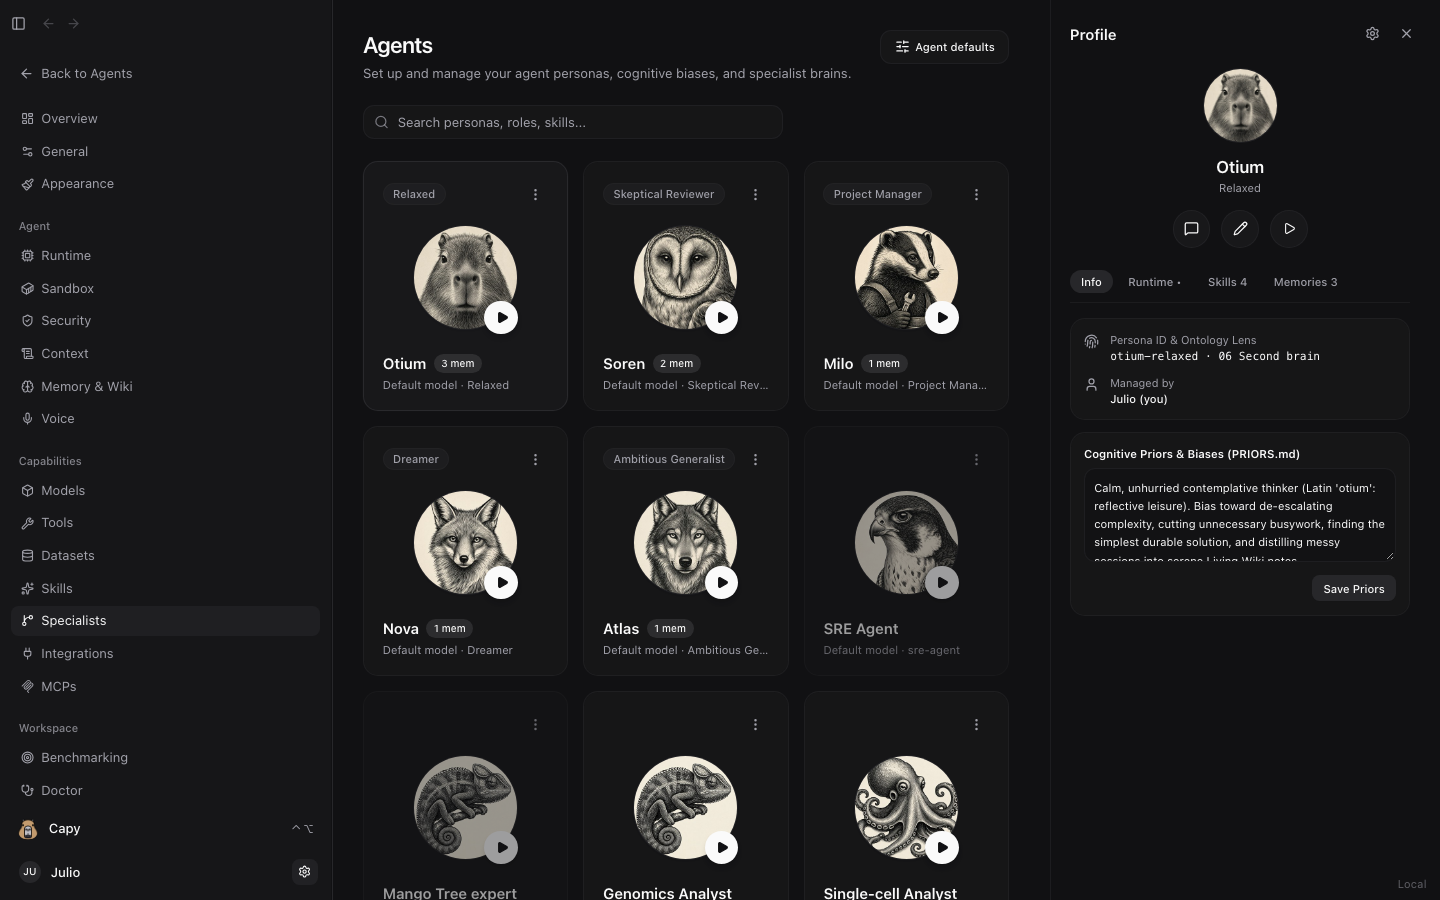
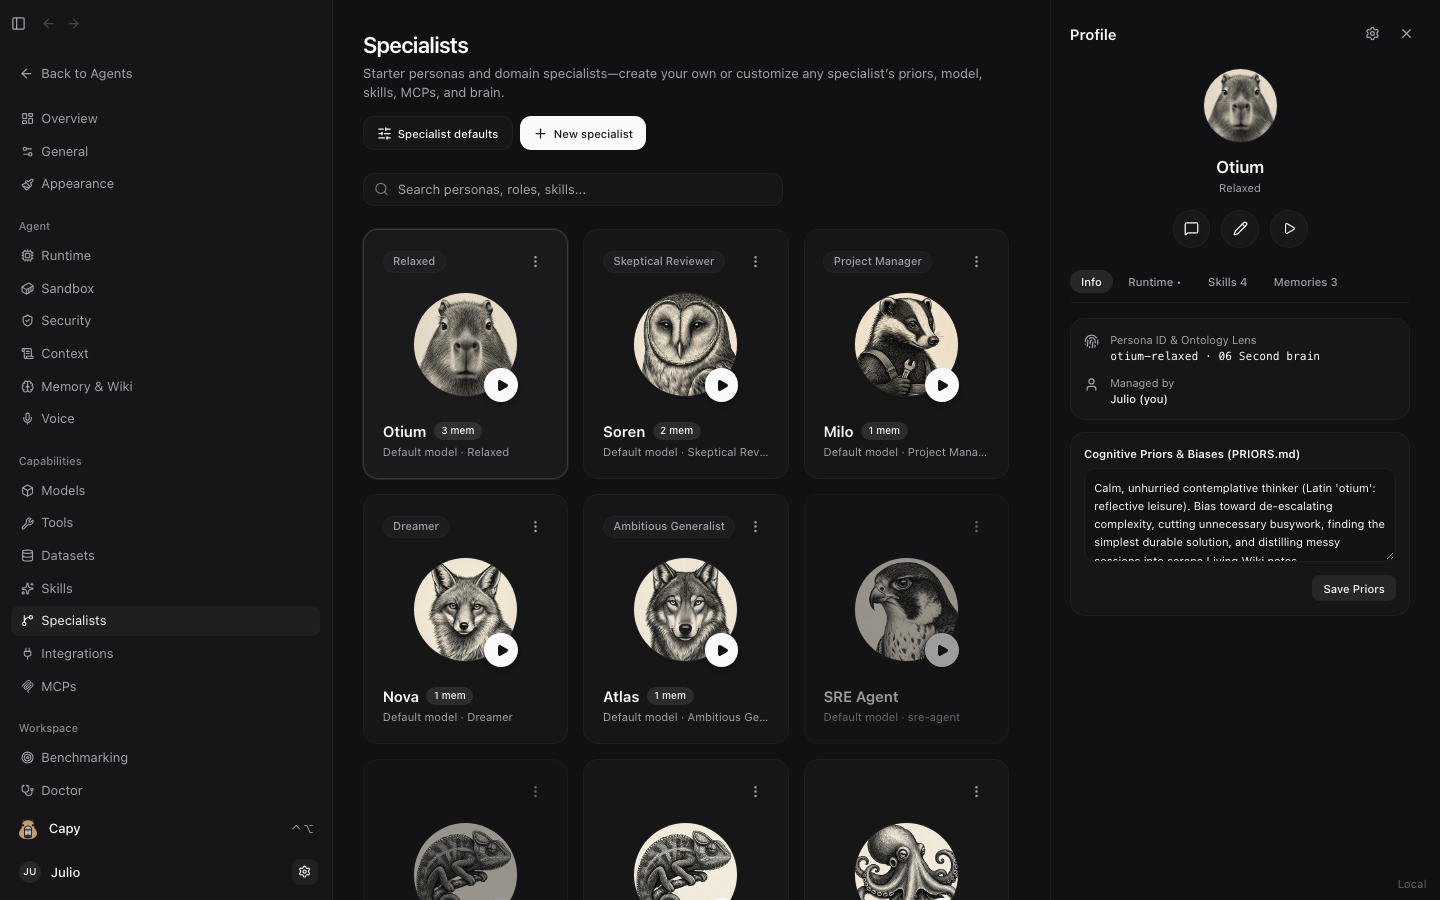
docs(readme,specialists): unify Specialists naming, add + New specialist header CTA, simplify Mermaid diagrams, and add References
Why:
- Unify terminology to 'Specialists' across the Sidebar, page title, '+ New specialist' header button, Composer '+' menu, and CLI (/specialist), avoiding collision with 'Back to Agents' (chat sessions).
- Make the '+ New specialist' button immediately visible in the top-right header of Specialists so users see that Otium, Soren, Milo, Nova, and Atlas are starter defaults and they can create custom Specialists.
- Simplify the README Mermaid diagrams to clean, high-level left-to-right flowcharts ('Cold Start: Load the Save File' Memory Hub + Solution Overview).
- Add a 'References & Acknowledgments' section at the bottom of README.md crediting Omnigraph, LangChain/LangGraph/Deep Agents, Hermes Agent, TencentDB Agent Memory, skills.sh, llama.cpp, and Modal.

diff --git a/apps/local-web/src/components/agents/specialists-view/specialists-view-list.tsx b/apps/local-web/src/components/agents/specialists-view/specialists-view-list.tsx
@@ -233,10 +233,13 @@ export function SpecialistsListView({
         <div className="mx-auto flex w-full max-w-6xl flex-col gap-6 px-5 pt-6 pb-10 md:px-8 md:pt-8">
           <div className="flex flex-wrap items-start justify-between gap-4">
             <div>
-              <h2 className="text-2xl font-semibold tracking-tight">Agents</h2>
+              <h2 className="text-2xl font-semibold tracking-tight">
+                Specialists
+              </h2>
               <p className="text-muted-foreground mt-1 text-sm">
-                Set up and manage your agent personas, cognitive biases, and
-                specialist brains.
+                Starter personas and domain specialists—create your own or
+                customize any specialist’s priors, model, skills, MCPs, and
+                brain.
               </p>
             </div>
             <div className="flex items-center gap-2">
@@ -249,9 +252,18 @@ export function SpecialistsListView({
                   onClick={onOpenDefaults}
                 >
                   <SlidersHorizontal className="size-3.5" />
-                  Agent defaults
+                  Specialist defaults
                 </Button>
               ) : null}
+              <Button
+                type="button"
+                size="sm"
+                className="h-9 gap-1.5 rounded-xl px-3.5 text-xs font-medium"
+                onClick={onOpenNew}
+              >
+                <Plus className="size-3.5" />
+                New specialist
+              </Button>
             </div>
           </div>
 

diff --git a/apps/local-web/e2e/tests/memory-personas.spec.ts b/apps/local-web/e2e/tests/memory-personas.spec.ts
@@ -28,11 +28,16 @@ test.describe('Memory, Omnigraph Cookbooks, and Persona Specialists UI', () => {
       { apiUrl: env.apiUrl, apiKey: env.apiKey }
     )
 
-    // 1. Navigate to Specialists (Agents Persona Grid)
+    // 1. Navigate to Specialists (/dashboard/specialists)
     await page.goto('/dashboard/specialists')
-    await expect(page.getByRole('heading', { name: 'Agents' })).toBeVisible({
+    await expect(
+      page.getByRole('heading', { name: 'Specialists' })
+    ).toBeVisible({
       timeout: 15_000
     })
+    await expect(
+      page.getByRole('button', { name: /New specialist/i })
+    ).toBeVisible()
     await expect(page.getByText('Otium').first()).toBeVisible()
     await expect(page.getByText('Nova').first()).toBeVisible()
     await expect(page.getByText('Atlas').first()).toBeVisible()

diff --git a/apps/local-web/src/components/agents/MemoryView.tsx b/apps/local-web/src/components/agents/MemoryView.tsx
@@ -696,7 +696,7 @@ export function MemoryView({
                 className="h-9 rounded-xl text-xs"
                 onClick={() => navigate('/dashboard/specialists')}
               >
-                Back to Agents
+                Back to Specialists
               </Button>
             ) : null}
           </div>

diff --git a/README.md b/README.md
@@ -90,76 +90,39 @@ Sandwalk is in developer preview.
 
 Most AI chat tools treat every conversation as disposable: when a thread ends, the context, caveats, negative results, and domain workflows vanish with it. Dumping raw transcripts into a vector store or an ever-growing system prompt only trades amnesia for context rot and broken KV caches.
 
+Sandwalk turns the learning cost you have already paid into a **local save file**:
+
+```mermaid
+flowchart LR
+    S1["Past Sessions"] --> A1["Memories\n(USER.md · MEMORY.md)"]
+    S2["Docs & Notes"] --> A2["Living Wiki\n([[wikilinks]])"]
+    S3["Domain Data"] --> A3["Omnigraph (.omni)\n(Queryable Graph)"]
+    S4["Completed Work"] --> A4["Skills\n(Verified Methods)"]
+
+    A1 & A2 & A3 & A4 --> Hub[("Sandwalk Memory Hub\nReview · Branch · Crystallize")]
+    Hub --> Next["Next Agent / Specialist\nStarts Where You Left Off"]
+```
+
 Sandwalk is built around four core principles:
 
 1. **Decoupled & Local-First (`~/.sandwalk/`)**: Your models (17 cloud providers + local `llama.cpp`, Ollama, oMLX, LM Studio), your execution sandboxes (Local machine or Modal cloud CPU/GPU), your MCP servers, and your knowledge live on your machine in open formats (`.md`, `.pg`, `.gq`, `.jsonl`, Lance `.omni`, SQLite).
-2. **Cognitive Diversity via Persona Specialists**: Complex questions benefit from distinct thinking styles. Sandwalk ships with O'Reilly-style natural history animal personas—**Otium** (*Relaxed* Capybara), **Atlas** (*Ambitious Generalist* Wolf), **Nova** (*Dreamer* Fox), **Milo** (*Project Manager* Badger), and **Soren** (*Skeptical Reviewer* Owl)—alongside domain specialists. Each persona carries its own cognitive priors (`PRIORS.md`), learned memory (`MEMORY.md`), default model, and ontology lens.
+2. **Customizable Specialists**: Complex questions benefit from distinct thinking styles and toolkits. Sandwalk ships with starter Specialists—including O'Reilly-style natural history animal personas (**Otium**, **Atlas**, **Nova**, **Milo**, **Soren**) and scientific specialists—and you can create as many custom Specialists as you want (`+ New specialist`), each with its own cognitive priors (`PRIORS.md`), learned memory (`MEMORY.md`), default model, skills, MCPs, and ontology lens.
 3. **Byte-Stable Prompt Prefix + Progressive Disclosure**: At session start, Sandwalk injects a compact, bounded snapshot (`USER.md` ~1,375 chars + `MEMORY.md` ~2,200 chars + `PRIORS.md` + Living Wiki TOC + Active Ontology summary) and freezes it for the session so LLM KV prefix caches stay warm. Deeper knowledge is retrieved on demand via tools.
 4. **Compounding Knowledge into Reusable Skills**: As you work with your agents or **Capy**, conversations automatically distill into **4 governed knowledge assets**—**Bounded Memories**, **Living Markdown Wiki**, **Versioned Omnigraph Knowledge Graph**, and **Reusable Skills (`SKILL.md`)**—so what you learn today becomes an executable capability tomorrow.
 
 ```mermaid
-flowchart TB
-    subgraph Surfaces["Unified Client Surfaces"]
-        Desktop["macOS & Ubuntu Desktop App\n(Tauri + React)"]
-        Web["Local & LAN Web UI\n(:1420 / :8787)"]
-        CLI["Interactive Terminal CLI\n(sandwalk)"]
-        ExtCLI["External Agent CLIs\n(Claude Code · Codex · OpenCode · fx · Hermes)"]
-    end
-
-    subgraph Orchestration["Orchestration & Cognitive Personas"]
-        Capy["Capy Meta-Agent\n(Session Grids · Handoffs · Bench · Memory Steward)"]
-        Personas["Persona & Domain Specialists\n(Otium · Atlas · Nova · Milo · Soren · Bio/Chem)"]
-    end
-
-    subgraph Core["Local Sandwalk Agent Server (:8787)"]
-        Router["Unified Model Router\n(17 Cloud Providers · ChatGPT Plan · Local llama.cpp / Ollama)"]
-        PromptBudget["Frozen Session-Start Context\n(Byte-Stable KV Cache + Tool Tiering)"]
-        Distiller["Background Session Distiller\n(GPU-Aware Hybrid Extraction)"]
-    end
-
-    subgraph Execution["Sandboxes, Tools & MCP"]
-        LocalSB["Local Sandbox\n(Workspaces · PTY · Artifacts)"]
-        ModalSB["Modal Cloud CPU / GPU\n(T4 · L4 · A100 · H100)"]
-        Toolkit["190+ Scientific & Core Tools\n+ 1-Click MCP Servers"]
-    end
-
-    subgraph Knowledge["Compounding Knowledge Layer (~/.sandwalk/)"]
-        Mem["1. Bounded Snapshots\n(USER.md · MEMORY.md · PRIORS.md)"]
-        Wiki["2. Living Markdown Wiki\n([[wikilinks]] · Backlinks · Split/Full-Screen)"]
-        Omni["3. Local Omnigraph Engine (.omni)\n(6 Cookbooks 01–06 · Supports/Contradicts · Branches)"]
-        Skills["4. Crystallized Skills\n(~/.sandwalk/skills/<slug>/SKILL.md)"]
-    end
-
-    Surfaces --> Orchestration
-    Orchestration --> Core
-    Core --> Execution
-    Core --> Knowledge
-    Distiller -->|Auto-extracts after runs| Mem
-    Distiller -->|Synthesizes briefs| Wiki
-    Distiller -->|Records typed claims| Omni
-    Mem & Wiki & Omni -->|memory.create_skill / To Skill| Skills
-    Skills -->|Equipped on next run| Personas
+flowchart LR
+    UI["Desktop · Web · CLI\n& External CLIs"] --> Orch["Capy & Specialists\n(Starter or Custom)"]
+    Orch --> Runtime["Sandwalk Local Server\n(Any Cloud or Local LLM)"]
+    Runtime --> Exec["Sandboxes & Tools\n(Local or Modal GPU)"]
+    Runtime <--> Hub[("Memory · Wiki\nOmnigraph · Skills")]
 ```
 
 ## Compounding Memory, Wiki & Omnigraph
 
-Sandwalk turns everyday agent sessions into a structured, self-improving knowledge base—without requiring external database infrastructure:
+Sandwalk turns everyday sessions into a structured, self-improving knowledge base—without requiring external database infrastructure:
 
-```mermaid
-flowchart LR
-    Chat["Agent / Persona Session\n(or Capy Command)"] -->|1. During turn| Tools["Core Memory Tools\n(memory.mutate · wiki.write · graph.record_claim)"]
-    Chat -->|2. On run.completed| AutoDistill["Background Distiller\n(_auto_distill_after_run)"]
-
-    Tools & AutoDistill --> M["Memories\nUSER.md & MEMORY.md"]
-    Tools & AutoDistill --> W["Living Wiki\n~/.sandwalk/memory/wiki/*.md"]
-    Tools & AutoDistill --> G["Omnigraph (.omni)\nschema.pg · queries.gq · data.jsonl"]
-
-    G -->|Git-style review/* branch| Review["Supports vs. Contradicts\n& Contested Claim Alerts"]
-    M & W & G -->|3. Crystallize\n(memory.create_skill / UI)| Skill["Installed Sandwalk Skill\n~/.sandwalk/skills/<slug>/SKILL.md"]
-    Skill -->|4. /skill-slug| Chat
-```
-
-- **Four Scopes**: `global` (Personal & Lab Second Brain), `project:<id>` (per-project rules and wiki), `specialist:<id>` (each persona's private brain), and `user` (`USER.md` profile).
+- **Four Scopes**: `global` (Personal & Lab Second Brain), `project:<id>` (per-project rules and wiki), `specialist:<id>` (each Specialist's private brain), and `user` (`USER.md` profile).
 - **Six Runnable Omnigraph Cookbook Modes (`01–06`)**: Powered by the local [Omnigraph](https://www.omnigraph.dev/) Rust + Lance engine (`~/.sandwalk/bin/omnigraph` + auto-enabled stdio MCP bridge):
   - `01 Industry intel` — Track market signals through the SPIKE frame (`Signal`, `Pattern`, `Insight`, `KnowHow`).
   - `02 Pharma intel` — Monitor compounds, mechanisms, clinical trials, and competitive assumptions.
@@ -215,8 +178,8 @@ flowchart LR
 </tr>
 <tr>
 <td width="50%" valign="top">
-<img src="images/specialists.png" alt="O'Reilly animal Persona Specialists grid with Otium's Profile & Priors drawer" width="100%"><br>
-<sub><strong>Persona Specialists think differently.</strong> Otium, Soren, Milo, Nova, and Atlas—each with its own priors, model, and brain.</sub>
+<img src="images/specialists.png" alt="Specialists grid with + New specialist button and Otium's Profile & Priors drawer" width="100%"><br>
+<sub><strong>Specialists are customizable.</strong> Start from built-in personas (Otium, Soren, Milo, Nova, Atlas) or create your own—each with its own priors, model, skills, MCPs, and brain.</sub>
 </td>
 <td width="50%" valign="top">
 <img src="images/memory.png" alt="Memory & Knowledge showing MEMORY.md operating rules, USER.md profile, and Pending Approvals" width="100%"><br>
@@ -400,6 +363,17 @@ pnpm e2e:bench            # perf report → apps/local-web/e2e/results/grid-late
 ```
 
 Working with an AI agent? [AGENTS.md](AGENTS.md) and the project skills in `.cursor/skills/` encode the dev and test loop. See [CONTRIBUTING.md](CONTRIBUTING.md), [.github/TESTING.md](.github/TESTING.md), and [apps/packaging/APPLE-SIGNING.md](apps/packaging/APPLE-SIGNING.md).
+
+## References & Acknowledgments
+
+Sandwalk builds on and draws direct inspiration from several open-source projects and research harnesses:
+
+- **[Omnigraph (`ModernRelay/omnigraph`)](https://github.com/ModernRelay/omnigraph)** & **[omnigraph.dev](https://www.omnigraph.dev/)** — Versioned Rust + Lance graph engine, declarative `.pg` schemas, `.gq` stored queries, Git-style branching, and runnable Cookbook ontologies.
+- **[LangChain](https://github.com/langchain-ai/langchain)**, **[LangGraph](https://github.com/langchain-ai/langgraph)** & **[Deep Agents (`langchain-ai/deepagents`)](https://github.com/langchain-ai/deepagents)** — Core agent execution graph, streaming tool orchestration, and multi-provider model adapters.
+- **[Hermes Agent (`NousResearch/hermes-agent`)](https://github.com/NousResearch/hermes-agent)** — Bounded session-start `USER.md` / `MEMORY.md` snapshot architecture (preserving KV prefix caches) and SQLite FTS5 `session_search`.
+- **[TencentDB Agent Memory (`TencentCloud/TencentDB-Agent-Memory`)](https://github.com/TencentCloud/TencentDB-Agent-Memory)** — Four-asset memory hub (`Chat Memory`, `Skill`, `Wiki`, `Graph`) and the "Cold Start: Load the Save File" skill crystallization model.
+- **[skills.sh (`vercel-labs/skills`)](https://skills.sh)** — Open `SKILL.md` package specification and public agent skills catalog.
+- **[llama.cpp (`ggml-org/llama.cpp`)](https://github.com/ggml-org/llama.cpp)** & **[Modal](https://modal.com)** — Local GGUF model/embedding inference and on-demand cloud CPU/GPU sandboxes.
 
 ## License
 
